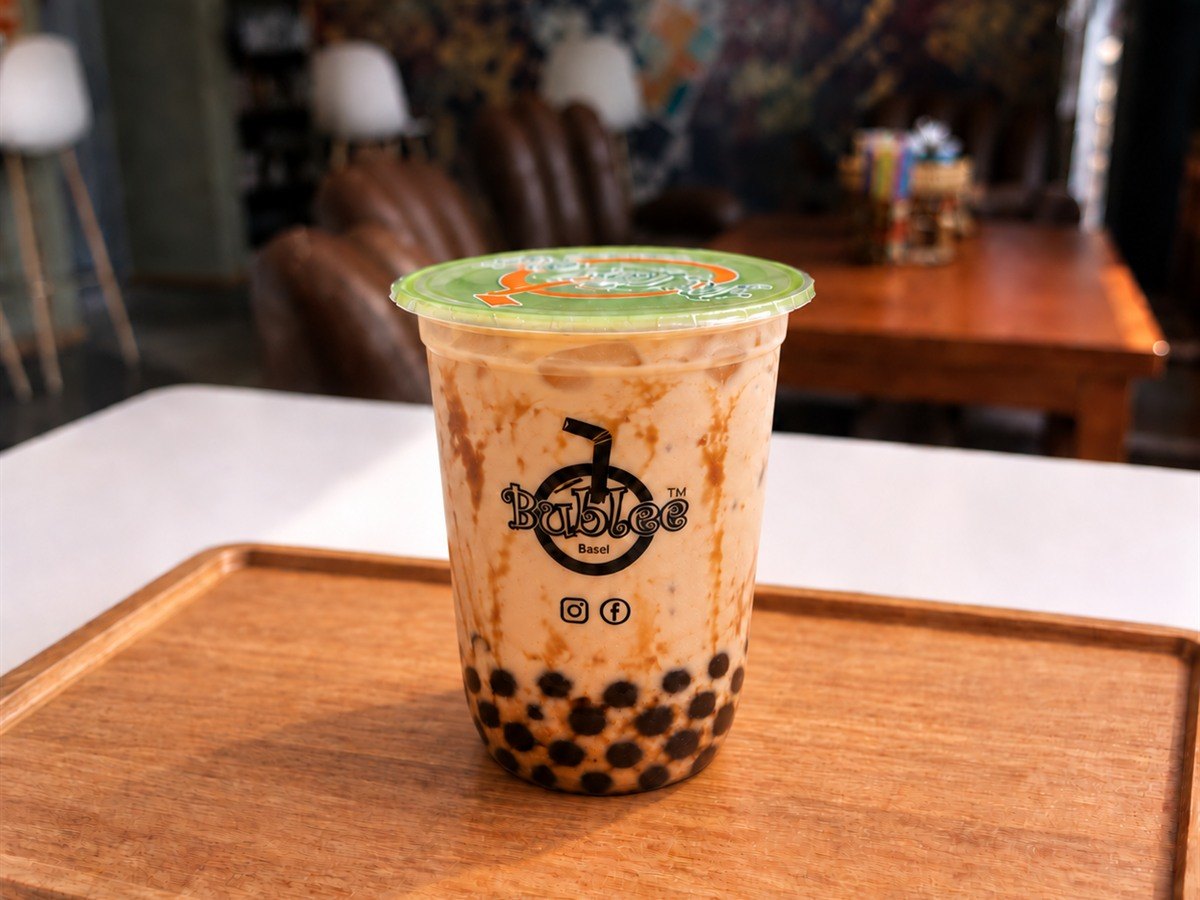
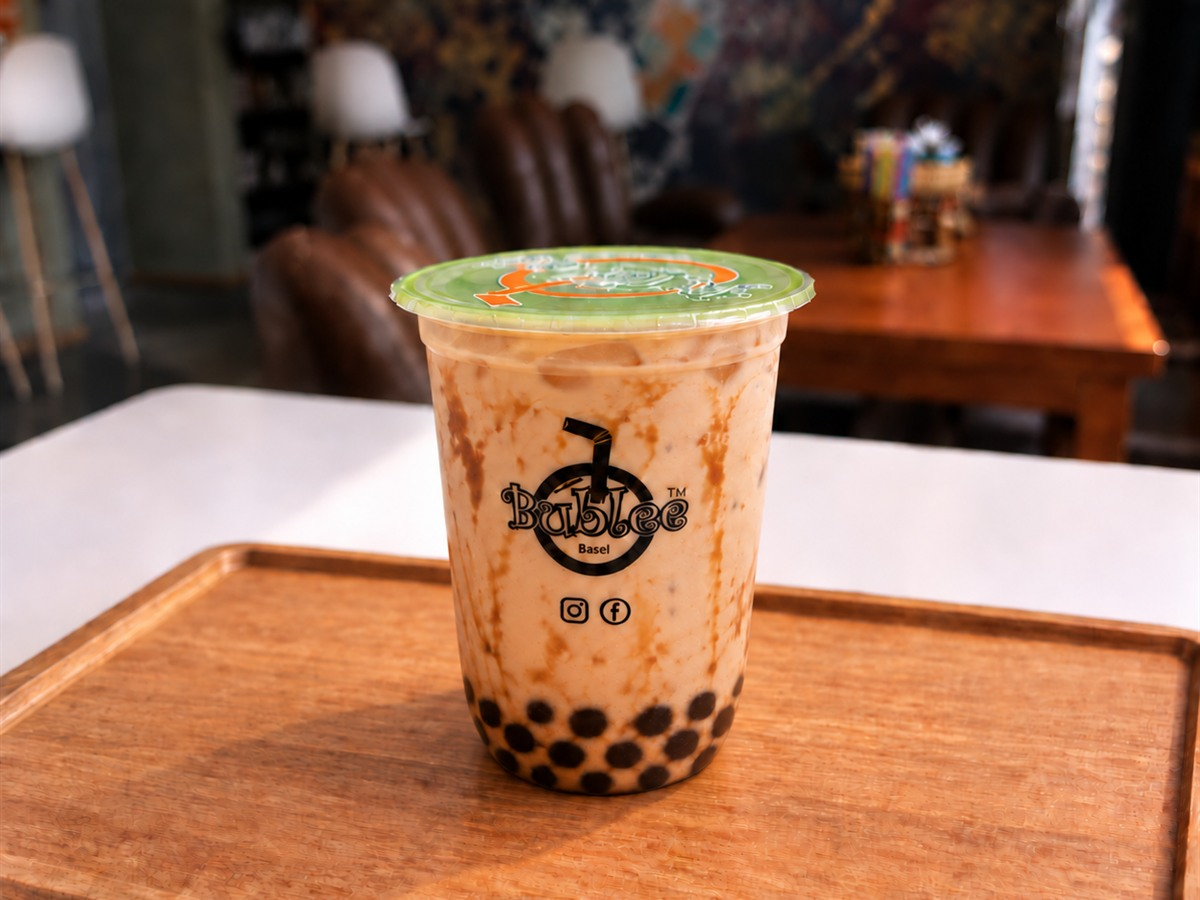
feat: publish approved Bublee brown sugar image

diff --git a/index.html b/index.html
@@ -31,7 +31,7 @@
     "name": "The B's Club",
     "url": "https://www.thebsclub.ch/",
     "telephone": "+41767742027",
-    "image": "https://www.thebsclub.ch/images/brown-sugar-milk-tea.jpg",
+    "image": "https://www.thebsclub.ch/images/campaign/v2/brown-sugar-milk-tea.png",
     "priceRange": "CHF",
     "inLanguage": "de-CH",
     "servesCuisine": ["Asian", "Thai", "Japanese", "Bubble Tea", "Coffee"],
@@ -404,9 +404,9 @@
         <div class="bestseller-showcase reveal" id="most-loved-drinks" aria-label="Die meistverkauften Getränke von The B's Club">
           <article class="bestseller-card" data-drink="Brown Sugar Milk Tea">
             <div class="bestseller-visual">
-              <img class="bestseller-product" src="/images/campaign/v2/brown-sugar-milk-tea.png" alt="Breiter Becher Brown Sugar Milk Tea mit schwarzen Tapiokaperlen und zwei Sirupstreifen." width="1023" height="1537" loading="lazy" decoding="async">
+              <img class="bestseller-product" src="/images/campaign/v2/brown-sugar-milk-tea.png" alt="Bublee Brown Sugar Milk Tea im versiegelten Becher mit schwarzen Tapiokaperlen." width="1080" height="1350" loading="lazy" decoding="async">
             </div>
-            <div class="bestseller-copy"><span class="bestseller-rank">Bestseller</span><h3>Brown Sugar Milk Tea</h3><p>Milchtee mit kräftigen Braunzuckerstreifen und bissfesten Perlen.</p><button class="outline-button menu-open" type="button" data-menu="bubble">Vollständige Karte ansehen <span aria-hidden="true">↗</span></button></div>
+            <div class="bestseller-copy"><span class="bestseller-rank">Bestseller</span><h3>Brown Sugar Milk Tea</h3><p>Cremiger Milchtee mit kräftigem Braunzucker und bissfesten Tapiokaperlen.</p><button class="outline-button menu-open" type="button" data-menu="bubble">Vollständige Karte ansehen <span aria-hidden="true">↗</span></button></div>
           </article>
           <article class="bestseller-card" data-drink="Yummy Strawberry">
             <div class="bestseller-visual">

diff --git a/en/index.html b/en/index.html
@@ -31,7 +31,7 @@
     "name": "The B's Club",
     "url": "https://www.thebsclub.ch/",
     "telephone": "+41767742027",
-    "image": "https://www.thebsclub.ch/images/brown-sugar-milk-tea.jpg",
+    "image": "https://www.thebsclub.ch/images/campaign/v2/brown-sugar-milk-tea.png",
     "priceRange": "CHF",
     "inLanguage": "en",
     "servesCuisine": ["Asian", "Thai", "Japanese", "Bubble Tea", "Coffee"],
@@ -404,9 +404,9 @@
         <div class="bestseller-showcase reveal" id="most-loved-drinks" aria-label="The B's Club bestselling drinks">
           <article class="bestseller-card" data-drink="Brown Sugar Milk Tea">
             <div class="bestseller-visual">
-              <img class="bestseller-product" src="/images/campaign/v2/brown-sugar-milk-tea.png" alt="Short wide cup of Brown Sugar Milk Tea with black tapioca pearls and two vertical syrup streaks." width="1023" height="1537" loading="lazy" decoding="async">
+              <img class="bestseller-product" src="/images/campaign/v2/brown-sugar-milk-tea.png" alt="Bublee Brown Sugar Milk Tea in a sealed cup with black tapioca pearls." width="1080" height="1350" loading="lazy" decoding="async">
             </div>
-            <div class="bestseller-copy"><span class="bestseller-rank">Bestseller</span><h3>Brown Sugar Milk Tea</h3><p>Milk tea with deep brown-sugar ribbons and chewy pearls.</p><button class="outline-button menu-open" type="button" data-menu="bubble">View full menu <span aria-hidden="true">↗</span></button></div>
+            <div class="bestseller-copy"><span class="bestseller-rank">Bestseller</span><h3>Brown Sugar Milk Tea</h3><p>Creamy milk tea swirled with rich brown sugar and finished with chewy tapioca pearls.</p><button class="outline-button menu-open" type="button" data-menu="bubble">View full menu <span aria-hidden="true">↗</span></button></div>
           </article>
           <article class="bestseller-card" data-drink="Yummy Strawberry">
             <div class="bestseller-visual">

diff --git a/styles.css b/styles.css
@@ -697,7 +697,7 @@ h1 em, h2 em { color: var(--gold); font-weight: 500; }
 
 .bestseller-card:hover { transform: translateY(-4px); box-shadow: 0 28px 70px rgba(35, 45, 35, .13); }
 
-.bestseller-card[data-drink="Brown Sugar Milk Tea"] { --cup-scale: 1.01; --cup-y: -2px; }
+.bestseller-card[data-drink="Brown Sugar Milk Tea"] { --cup-scale: 1.20; --cup-y: 0px; }
 .bestseller-card[data-drink="Yummy Strawberry"] { --cup-scale: 1.01; --cup-y: 21px; }
 .bestseller-card[data-drink="Matcha Latte"] { --cup-scale: 1.055; --cup-y: -1px; }
 .bestseller-card[data-drink="Mango Tea"] { --cup-scale: 1; --cup-y: -4px; }
